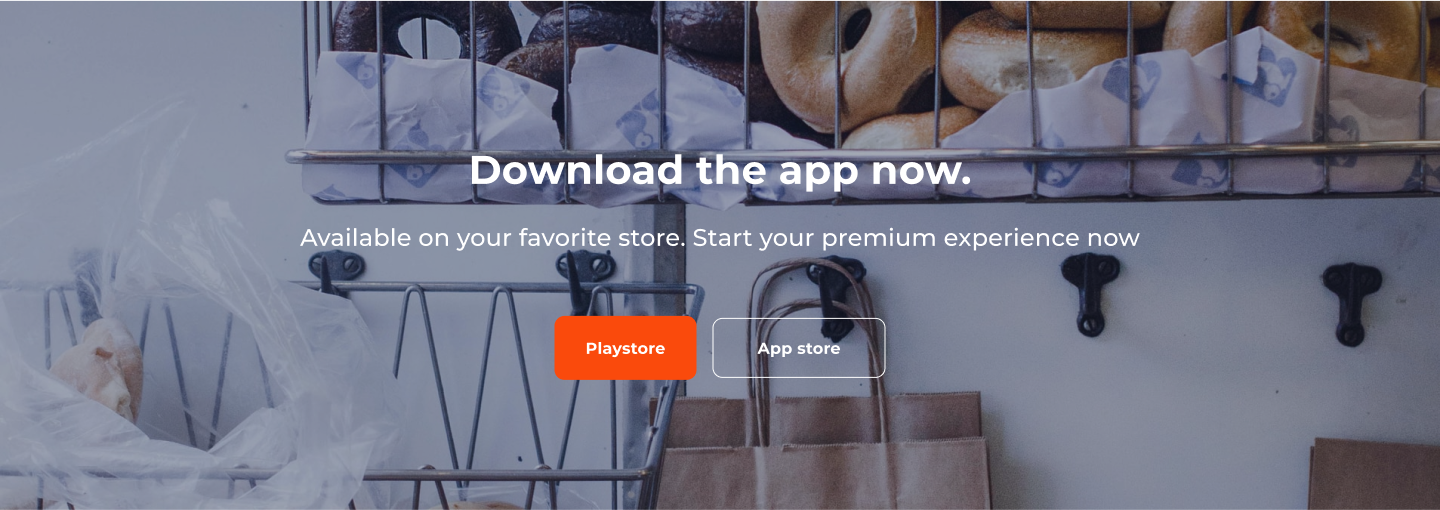
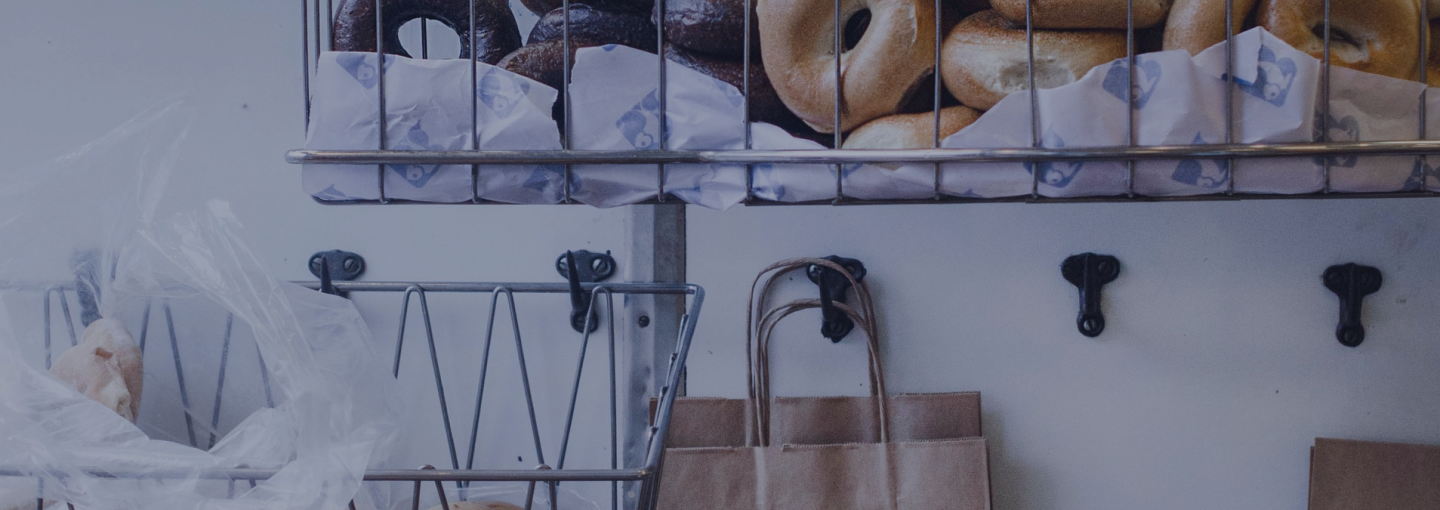
Updated

diff --git a/src/components/Hero.jsx b/src/components/Hero.jsx
@@ -1,21 +1,27 @@
 import React from 'react'
 import background from '../assets/background.png'
+import mobiles from '../assets/mobiles.png'
 export default function Hero() {
   return (
-    <div className='relative h-[100%] w-[100%] py-[70px] bg-initial'>
-    <img src={background} alt="bg-image"/>
-    <div className='absolute top-1/2 left-1/2 transform-translate(-50%, -50%) text-center'>
+    <div className="hidden md:flex flex-col items-center text-center h-[536px] bg-center bg-cover" style={{ backgroundImage: `url(${background})` }}>
+    <div className=''>
         <div className="text-white">
-            <p>Food App</p>
-            <h2>Why stay hungry when</h2>
-            <p>you can order from Bella Onojie</p>
-            <p>Download the Bella Onoje's food app now on</p>
+            <p className="text-[24px] font-bold font-mono leading-[36px] mt-[73px]">Food App</p>
+            <h2 className="text-[#FFF] font-[Poppins] leading-[80px] font-bold text-[58px] mt-[17px]">Why stay hungry when <br />you can order from Bella Onojie</h2>
+            <p className='text-[#F6F6F6] text-[24px] font-medium mt-[27px] leading-[38px]'>Download the Bella Onoje's food app now on</p>
         </div>
-        <div>
-            <button>PlayStore</button>
-            <button>AppStore</button>
+        <div className='mt-[30px]'>
+            <button className='bg-[#FA4A0C] w-[128px] text-[24px] font-bold font-[montserrat] text-[#FFF] leading-[36px] border-[1px] rounded-[30px] mr-[36px] hover:'>Playstore</button>
+            <button className='w-[128px] text-[24px] font-bold font-[montserrat] text-[#FFF] leading-[36px] bg-transparent border-[1px] rounded-[30px]'>App Store</button>
         </div>
     </div>
+    <div className='mt-[0px] w-[299px] self-end-reverse'>
+      <img src={mobiles} alt="" />
+    </div>
 </div>
+
+
+
+
   )
 }

diff --git a/src/components/Navbar.jsx b/src/components/Navbar.jsx
@@ -19,18 +19,18 @@ export default function Navbar() {
     
     }
             
-          <ul className=' hidden w-[40%] p-12  md:flex justify-evenly  '>
-            <a href="" >Home</a>
-            <a href="">Contact</a>
-            <a href="">Faq</a>
-            <a href="">Payments</a>
+          <ul className=' hidden w-[40%] p-12  md:flex justify-evenly font-[montserrat] '>
+            <a href="#" className="text-[#FA4A0C] font-bold" >Home</a>
+            <a href="#" className='text-[#252B42] font-bold'>Contact</a>
+            <a href="#" className='text-[#252B42] font-bold'>Faq</a>
+            <a href="#" className='text-[#252B42] font-bold'>Payments</a>
           </ul>
   </div>
-          <ul className={`duration-300 md:hidden fixed flex flex-col text-white w-full h-screen bg-black items-center ${toggle ? 'left-0' : 'left-[-100%]'}`}>
-            <a href="" className='p-3' >Home</a>
-            <a href="" className='p-3'>Contact</a>
-            <a href=""className='p-3'>Faq</a>
-            <a href=""className='p-3'>Payments</a>
+          <ul className={`duration-300 md:hidden fixed flex flex-col text-white h-screen bg-black items-center ${toggle ? 'left-0' : 'left-[-100%]'}`}>
+            <a href="#" className='p-3' >Home</a>
+            <a href="#" className='p-3'>Contact</a>
+            <a href="#"className='p-3'>Faq</a>
+            <a href="#"className='p-3'>Payments</a>
           </ul>
     </>
   )

diff --git a/src/components/Main3.jsx b/src/components/Main3.jsx
@@ -1,0 +1,16 @@
+import React from 'react'
+import hero from '../assets/hero.png'
+export default function Main3() {
+  return (
+    <div className="flex flex-col items-center justify-center text-center h-[516px] bg-center bg-cover" style={{ backgroundImage: `url(${hero})` }}>
+            <div >
+                <h1 className='text-[40px] text-[#FFF] leading-[57px] font-bold'>Download the app now.</h1>
+                <p className='text-24px font-[500px] leading-[38px] text-[#FFF] font-[montserrat] mt-[20px]'>Available on your favorite store. Start your premium experience now</p>
+            </div>
+            <div className='mt-[30px]'>
+            <button className='bg-[#FA4A0C] w-[128px] text-[24px] font-bold font-[montserrat] text-[#FFF] leading-[36px] border-[1px] rounded-[30px] mr-[36px] hover:'>Playstore</button>
+            <button className='w-[128px] text-[24px] font-bold font-[montserrat] text-[#FFF] leading-[36px] bg-transparent border-[1px] rounded-[30px]'>App Store</button>
+        </div>
+        </div>
+  )
+}

diff --git a/src/components/Footer.jsx b/src/components/Footer.jsx
@@ -1,0 +1,20 @@
+import React from 'react'
+import logo from '../assets/logo.png'
+import insta from '../assets/instagram.png'
+import fb from '../assets/fb.svg'
+import twitter from '../assets/twitter.svg'
+export default function Footer() {
+  return (
+    <div className='w-[full] h-[223px] items-center justify-center'>
+        <div className='h-[133px] flex items-center justify-evenly my-[115px] mx-[53px]'>
+            <img src={logo} alt="" />
+            <div className='flex gap-[24px]'>
+                <img src={twitter} alt="" />
+                <img src={fb} alt="" />
+                <img src={insta} alt="" width={39} />
+            </div>
+            <p>Copyright © 2020 Bella Onojie</p>
+        </div>
+    </div>
+  )
+}

diff --git a/src/components/Main.jsx b/src/components/Main.jsx
@@ -4,7 +4,7 @@ export default function Main() {
   return (
     <>
          <div className="flex flex-col justify-center items-center">
-            <hr class="hr" className="h-[5px] w-[884px] bg-gray-500 "/>
+         <hr class="hr" className="h-[5px] w-[884px] bg-gray-500 mt-[300px]"/>
             <p class="py-[12px] text-[44px] font-sans font-[600px] leadding-[36px]">
                 How the app works
             </p>

diff --git a/src/App.js b/src/App.js
@@ -3,13 +3,17 @@ import Navbar from './components/Navbar'
 import Hero from './components/Hero';
 import Main from './components/Main';
 import Main2 from './components/Main2';
+import Main3 from './components/Main3';
+import Footer from './components/Footer';
 function App() {
   return (
     <>
     <Navbar/>
-    {/* <Hero/> */}
+    <Hero/>
    <Main/>
    <Main2/>
+   <Main3/>
+   <Footer/>
     </>
   );
 }
